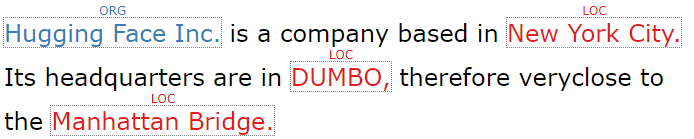
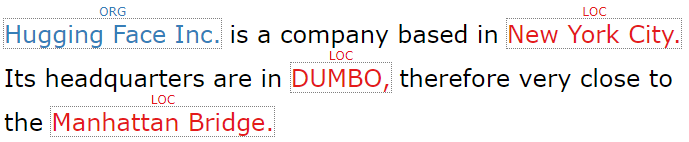
No issue - Update README.md

diff --git a/README.md b/README.md
@@ -92,7 +92,9 @@ Or as HTML via `seq.to_html()`:
 
 You can also use `TaggedSequence` in an Jupyter notebook:
 
-
+<p align="center">
+  <img src="img/jupyter_ner.png" />
+</p>
 
 ## Integration with other NLP frameworks
 
@@ -121,7 +123,7 @@ label_list = [
     "I-LOC"    # Location
 ]
 
-text = "Hugging Face Inc. is a company based in New York City. Its headquarters are in DUMBO, therefore very" \
+text = "Hugging Face Inc. is a company based in New York City. Its headquarters are in DUMBO, therefore very " \
            "close to the Manhattan Bridge."
 
 inputs, groups = tokenize_for_bert(text, tokenizer)
